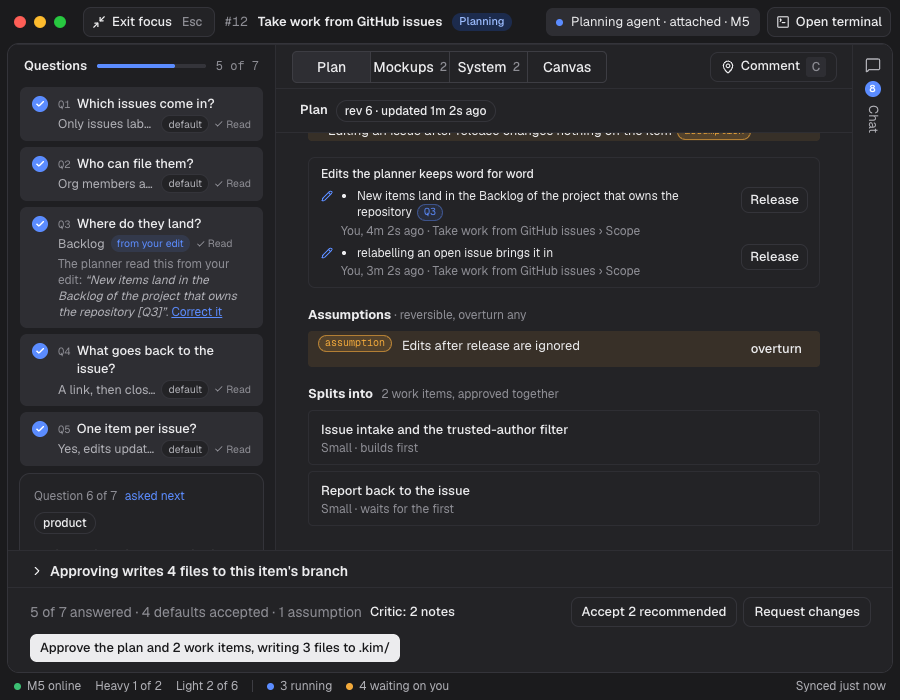
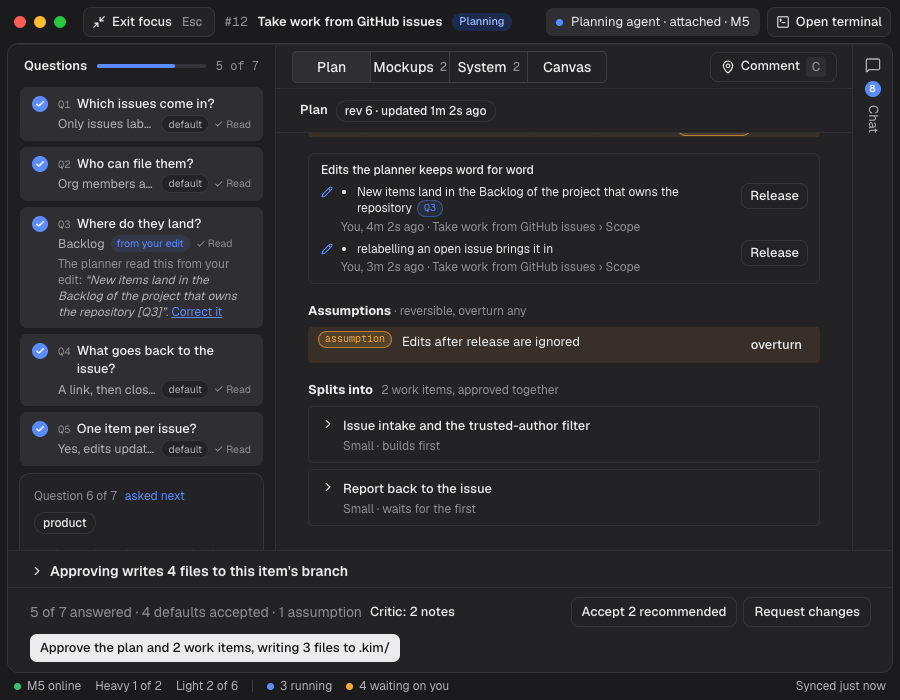
Review of #173: the gate shows each child's slice, binds the approval to it, and says so in Touch ID
- Each child at the gate opens to its goal, scope, criteria and what it waits for; Approve is off
  until the plan is loaded and its split readable.
- The approval sends the spec version and splitDigest of what was shown.
- The Touch ID prompt says 'Approve the plan and N work items for #N "…": "A", "B"'.
- An unreadable split is said, not shown as no split; an ended child shows how it ended; workItem.get
  looks up a parent only for a plan's child.

Claude-Session: https://claude.ai/code/session_01Y83vhCJB2njLk3iZzd3J9U

diff --git a/apps/desktop/src/mainview/components/split-list.tsx b/apps/desktop/src/mainview/components/split-list.tsx
@@ -1,14 +1,33 @@
 // The work items a plan splits into (spec 24, design PlanFocus: "Splits into · 2 work items,
 // approved together"), under the plan, and the split's parent and children on an item.
 import type { PlanningView } from "@software-factory/client/planning";
+import {
+  Collapsible,
+  CollapsibleContent,
+  CollapsibleTrigger,
+} from "@software-factory/ui/components/collapsible";
+import { cn } from "@software-factory/ui/lib/utils";
 import { Link } from "@tanstack/react-router";
+import { ChevronRightIcon } from "lucide-react";
 import { splitLines } from "../lib/splits.ts";
 
 type Child = NonNullable<PlanningView["spec"]>["children"][number];
 
-export function SplitList({ items }: { items: Child[] }) {
+export function SplitList({ items, unreadable = false }: { items: Child[]; unreadable?: boolean }) {
+  if (unreadable) {
+    return (
+      <div
+        className="rounded-md bg-status-failed/10 px-3 py-2 text-xs"
+        data-testid="split-unreadable"
+      >
+        This plan's split can't be read, so it can't be approved: request changes so the planner
+        revises it.
+      </div>
+    );
+  }
   if (!items.length) return null;
   const lines = splitLines(items);
+  const byKey = new Map(items.map((c) => [c.key, c]));
   return (
     <div data-testid="split">
       <div className="flex items-baseline gap-2">
@@ -18,14 +37,49 @@ export function SplitList({ items }: { items: Child[] }) {
         </span>
       </div>
       <ul className="mt-1.5 grid gap-1.5">
-        {lines.map((l) => (
+        {items.map((c, i) => (
           <li
-            key={l.key}
-            className="rounded-md border border-line-soft bg-panel px-3 py-2"
+            key={c.key}
+            className="rounded-md border border-line-soft bg-panel"
             data-testid="split-child"
           >
-            <div className="font-medium">{l.title}</div>
-            <div className="text-muted-foreground text-xs">{l.detail}</div>
+            {/* What is approved is shown (review of #173): each child's whole slice. */}
+            <Collapsible>
+              <CollapsibleTrigger className="group flex w-full items-start gap-2 px-3 py-2 text-left">
+                <ChevronRightIcon className="mt-0.5 size-3.5 flex-none transition-transform group-data-[state=open]:rotate-90" />
+                <span className="grid gap-0.5">
+                  <span className="font-medium">{c.title}</span>
+                  <span className="text-muted-foreground text-xs">{lines[i]?.detail}</span>
+                </span>
+              </CollapsibleTrigger>
+              <CollapsibleContent className="grid gap-2 px-3 pb-2.5 pl-8 text-xs">
+                <div>
+                  <div className="font-medium">Goal</div>
+                  <p className="m-0">{c.goal}</p>
+                </div>
+                <div>
+                  <div className="font-medium">Scope</div>
+                  <ul className="m-0 list-disc pl-4">
+                    {c.scope.map((x) => (
+                      <li key={x}>{x}</li>
+                    ))}
+                  </ul>
+                </div>
+                <div>
+                  <div className="font-medium">Acceptance criteria</div>
+                  <ul className="m-0 list-disc pl-4">
+                    {c.acceptanceCriteria.map((x) => (
+                      <li key={x}>{x}</li>
+                    ))}
+                  </ul>
+                </div>
+                {c.after && (
+                  <div className="text-muted-foreground">
+                    Waits for “{byKey.get(c.after)?.title ?? c.after}” to merge first.
+                  </div>
+                )}
+              </CollapsibleContent>
+            </Collapsible>
           </li>
         ))}
       </ul>
@@ -73,8 +127,18 @@ export function SplitLinks({
                 >
                   {c.title}
                 </Link>
-                <span className="flex-none text-muted-foreground text-xs">
-                  {c.status === "done" || c.status === "cancelled" ? c.status : c.stage}
+                <span
+                  className={cn(
+                    "flex-none text-xs",
+                    ["failed", "rejected", "cancelled"].includes(c.status)
+                      ? "text-status-failed"
+                      : "text-muted-foreground",
+                  )}
+                >
+                  {/* An ended child shows how it ended, not the stage it stopped in. */}
+                  {["done", "failed", "rejected", "cancelled"].includes(c.status)
+                    ? c.status
+                    : c.stage}
                 </span>
               </li>
             ))}

diff --git a/apps/desktop/src/mainview/components/planning.tsx b/apps/desktop/src/mainview/components/planning.tsx
@@ -28,6 +28,7 @@ import {
   type PlanningView,
   questionOptions,
   sessionPill,
+  splitDigest,
 } from "@software-factory/client/planning";
 import { Badge } from "@software-factory/ui/components/badge";
 import { Button } from "@software-factory/ui/components/button";
@@ -1251,7 +1252,7 @@ function Spec({
               </ul>
             </div>
           )}
-          <SplitList items={spec.children ?? []} />
+          <SplitList items={spec.children ?? []} unreadable={spec.childrenUnreadable === true} />
           {spec.clarifications.length > 0 && (
             <div data-testid="clarifications">
               <b>Clarifications</b>
@@ -1689,9 +1690,31 @@ function GateBar({ view, detail }: { view: PlanningView; detail: WorkItemDetail 
           </Button>
           <Button
             size="sm"
-            disabled={!canApprove || pending !== null || !writeBack}
-            title={canApprove ? undefined : "Only an approver on this project can approve the spec"}
-            onClick={() => decide({ kind: "spec.approve", workItemId: item.id })}
+            disabled={
+              !canApprove ||
+              pending !== null ||
+              !writeBack ||
+              !view.spec ||
+              view.spec.childrenUnreadable === true
+            }
+            title={
+              !canApprove
+                ? "Only an approver on this project can approve the spec"
+                : view.spec?.childrenUnreadable
+                  ? "This plan's split can't be read: request changes so the planner revises it"
+                  : undefined
+            }
+            onClick={async () => {
+              // A split is approved as shown (review of #173): the version and its work items.
+              const children = view.spec?.children ?? [];
+              decide({
+                kind: "spec.approve",
+                workItemId: item.id,
+                ...(children.length && view.spec
+                  ? { specVersion: view.spec.version, splitDigest: await splitDigest(children) }
+                  : {}),
+              });
+            }}
             data-testid="approve-spec"
           >
             {splitApproveLabel(view.spec?.children?.length ?? 0, writeBack?.kimCount) ??

diff --git a/packages/core/src/operations/desktop.ts b/packages/core/src/operations/desktop.ts
@@ -14,6 +14,7 @@
 //
 // The app isn't anyone before it signs in, so sf-engine calls authStart and authExchange unsigned,
 // as DESKTOP_DEVICE_ACTOR.
+
 import type { KeyStorage } from "@software-factory/db";
 import { z } from "zod";
 import { type Actor, type DeviceSurface, isDeviceSurface } from "../actors.ts";
@@ -22,6 +23,7 @@ import { newId } from "../ids.ts";
 import { inputDigest, presenceSurfaceAllowed } from "../invoke.ts";
 import { defineOperation, type HandlerContext } from "../operation.ts";
 import { getOperation } from "../registry.ts";
+import { childrenOf } from "../splits.ts";
 import { describeConfigDecision } from "./config.ts";
 import { deviceList, deviceRevoke } from "./device.ts";
 import { randomToken, sha256Hex } from "./onboarding.ts";
@@ -176,8 +178,28 @@ async function describeDecision(ctx: HandlerContext, op: string, input: Record<s
     return w ? `#${w.number} ${quoted(w.title)}` : "a work item";
   };
   switch (op) {
-    case "spec.approve":
-      return `Approve the spec for ${await named(input.workItemId)}`;
+    case "spec.approve": {
+      // A split approves its work items too (spec 24, review of #173): the prompt says how many,
+      // from the gated spec in the engine's records.
+      const w =
+        typeof input.workItemId === "string"
+          ? await ctx.db
+              .selectFrom("core_work_items as w")
+              .leftJoin("core_specs as s", "s.id", "w.current_spec_id")
+              .select(["s.children"])
+              .where("w.id", "=", input.workItemId)
+              .executeTakeFirst()
+          : undefined;
+      let children: { title: string }[] = [];
+      try {
+        children = childrenOf(w?.children ?? null);
+      } catch {
+        children = [];
+      }
+      if (!children.length) return `Approve the spec for ${await named(input.workItemId)}`;
+      const titles = children.map((c) => quoted(c.title)).join(", ");
+      return `Approve the plan and ${children.length} work item${children.length === 1 ? "" : "s"} for ${await named(input.workItemId)}: ${titles}`;
+    }
     case "spec.requestChanges":
       return `Request changes to the spec for ${await named(input.workItemId)}`;
     case "review.merge": {

diff --git a/packages/core/src/operations/planning.ts b/packages/core/src/operations/planning.ts
@@ -53,11 +53,8 @@ import {
 } from "../planning.ts";
 import { liveArtifact } from "../planning-visuals.ts";
 import { approverIds } from "../scope.ts";
-<<<<<<< HEAD
 import { childrenOf } from "../splits.ts";
-=======
 import { has } from "../workflow-features.ts";
->>>>>>> timoconnellaus/planning-splits
 import { ACTIVE_RUN } from "./runners.ts";
 import { fencingToken, jobId, requireWorkItem, workItemId } from "./shared.ts";
 import { RUNNER_OFFLINE_MS } from "./work-items.ts";
@@ -1551,6 +1548,8 @@ const specView = z.object({
   clarifications: z.array(z.record(z.string(), z.unknown())),
   /** Spec 24: the work items this version splits into, approved with it. */
   children: z.array(specChildSchema).default([]),
+  /** The stored split can't be read: approving is refused until the planner revises it. */
+  childrenUnreadable: z.boolean().default(false),
   summary: z.string().nullable(),
   status: z.string(),
   createdAt: z.string(),
@@ -1780,7 +1779,14 @@ export const planningGet = defineOperation({
       assumptions: parseJson<string[]>(s.assumptions, []),
       coverage: parseJson<Record<string, unknown>[]>(s.coverage, []),
       clarifications: parseJson<Record<string, unknown>[]>(s.clarifications, []),
-      children: childrenOf(s.children),
+      ...(() => {
+        // An unreadable split is said, not shown as no split (review of #173).
+        try {
+          return { children: childrenOf(s.children), childrenUnreadable: false };
+        } catch {
+          return { children: [], childrenUnreadable: true };
+        }
+      })(),
       summary: s.summary,
       status: s.status,
       createdAt: s.created_at,

diff --git a/apps/engine/test/desktop.test.ts b/apps/engine/test/desktop.test.ts
@@ -247,6 +247,32 @@ describe("the desktop app's client door (/client/v1)", () => {
     expect(batch.results[2]?.code).toBe("forbidden");
   });
 
+  it("says how many work items a split's approval creates, in the Touch ID prompt (spec 24, review of #173)", async () => {
+    const w = await world();
+    const { token, device } = await signIn(w);
+    const workItemId = await newItem(w, token);
+    const child = (key: string, title: string) => ({
+      key,
+      title,
+      size: "small",
+      goal: "g",
+      scope: ["s"],
+      acceptanceCriteria: ["c"],
+    });
+    await env.DB.prepare(
+      "INSERT INTO core_specs (id, work_item_id, version, body_md, acceptance_criteria, status, created_by, created_at, children) VALUES ('spec_split', ?, 1, '# x', '[]', 'draft', 'test', '2026-11-13T00:00:00.000Z', ?)",
+    )
+      .bind(workItemId, JSON.stringify([child("a", "Issue intake"), child("b", "Report back")]))
+      .run();
+    await env.DB.prepare("UPDATE core_work_items SET current_spec_id = 'spec_split' WHERE id = ?")
+      .bind(workItemId)
+      .run();
+    const proof = await prove(token, device, "spec.approve", { workItemId });
+    expect(proof.summary).toBe(
+      `Approve the plan and 2 work items for #${(await first<{ number: number }>("SELECT number FROM core_work_items WHERE id = ?", workItemId))?.number} "From the desktop": "Issue intake", "Report back"`,
+    );
+  });
+
   it("refuses a gate decision without a proof, and lets exactly one proven call past (criteria 3, 4)", async () => {
     const w = await world();
     const { token, device } = await signIn(w);

diff --git a/apps/desktop/src/mainview/lib/decisions.tsx b/apps/desktop/src/mainview/lib/decisions.tsx
@@ -19,7 +19,13 @@ import { decide as decideOp, OpError, submitKey } from "./op.ts";
 import { useRefreshAfterDecision } from "./queries.ts";
 
 export type Decision =
-  | { kind: "spec.approve"; workItemId: string }
+  | {
+      kind: "spec.approve";
+      workItemId: string;
+      /** Spec 24: for a split, the version and work items the person saw (review of #173). */
+      specVersion?: number;
+      splitDigest?: string;
+    }
   | { kind: "spec.requestChanges"; workItemId: string; note: string }
   | {
       kind: "review.merge";
@@ -75,7 +81,15 @@ export async function run(d: Decision): Promise<string> {
   const key = { idempotencyKey: submitKey() };
   switch (d.kind) {
     case "spec.approve": {
-      const r = await decideOp("spec.approve", { workItemId: d.workItemId }, key);
+      const r = await decideOp(
+        "spec.approve",
+        {
+          workItemId: d.workItemId,
+          ...(d.specVersion !== undefined ? { specVersion: d.specVersion } : {}),
+          ...(d.splitDigest !== undefined ? { splitDigest: d.splitDigest } : {}),
+        },
+        key,
+      );
       return r.alreadyDecided ? "Already decided" : DONE[d.kind];
     }
     case "spec.requestChanges": {

diff --git a/packages/core/src/operations/work-items.ts b/packages/core/src/operations/work-items.ts
@@ -621,10 +621,12 @@ export const workItemGet = defineOperation({
           .select(["t.id", "t.number", "t.title", "t.status", "t.project_id"])
           .where("l.waits_for_id", "=", w.id),
         // Spec 24: the parent by primary key; the children by core_work_items_parent_idx (≤ 8).
+        // Only a plan's child has a parent to show (review of #173): no lookup otherwise.
         ctx.db
           .selectFrom("core_work_items")
           .select(["id", "number", "title", "status"])
-          .where("id", "=", w.source === "planning" ? (w.parent_work_item_id ?? "") : ""),
+          .where("id", "=", w.parent_work_item_id ?? "")
+          .where(sql<boolean>`${w.source === "planning" && w.parent_work_item_id ? 1 : 0} = 1`),
         ctx.db
           .selectFrom("core_work_items")
           .select(["id", "number", "title", "status", "stage", "size"])

diff --git a/packages/client/src/planning.ts b/packages/client/src/planning.ts
@@ -168,7 +168,8 @@ export function answerText(kind: string, values: string[]): string {
 
 /** The plan's blocks, as the server compares them (spec 27): one segmentation for both. Spec 21:
  * what an answer sets in its mockup, and a mockup's frame size, shared with the server. Spec 22
- * part B: comparing a design's parts with its pulled base. */
+ * part B: comparing a design's parts with its pulled base. Spec 24: the digest an approval of a
+ * split names. */
 export {
   appliedValues,
   changedSpan,
@@ -184,6 +185,7 @@ export {
   type PartChange,
   type PlanBlock,
   planBlocks,
+  splitDigest,
 } from "@software-factory/runner-contract";
 /** The one sensitive-question check, shared with the server (ADR 0042, review of #71). */
 export { isSensitiveQuestion };

diff --git a/apps/desktop/screenshots/fixtures.ts b/apps/desktop/screenshots/fixtures.ts
@@ -1406,6 +1406,7 @@ function planning(workItemId: string): OpOutput<"planning.get"> {
       bodyMd: live ? PLAN_MD : "## Goal\nVerify flags a change that weakens the tests.\n",
       acceptanceCriteria: live ? [] : CRITERIA,
       assumptions: live ? ["Edits after release are ignored"] : [],
+      childrenUnreadable: false,
       // Spec 24, as in PlanFocus: the plan splits into two work items, approved together.
       children: live
         ? [
